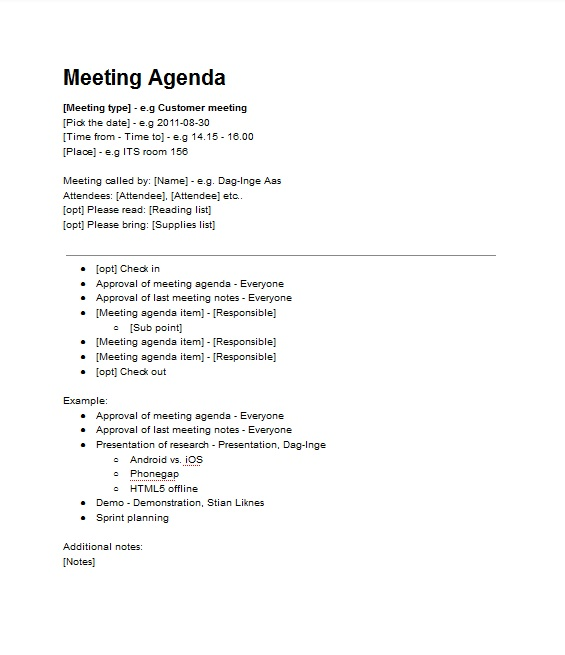
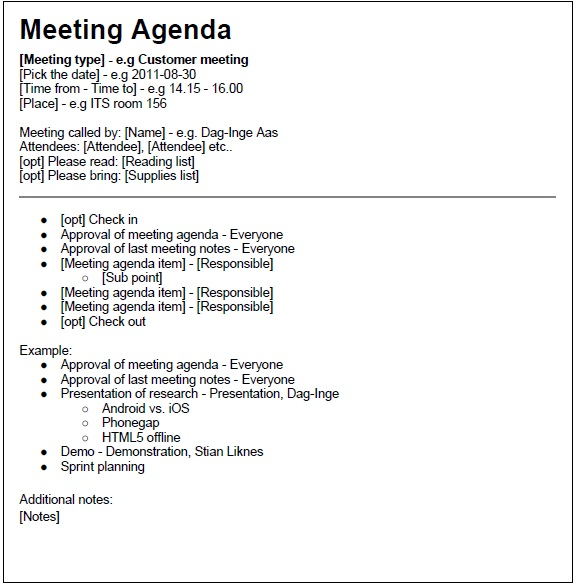
Templates, updated

Changed region(s): [[0.0301, 0.0308, 0.9628, 0.8938], [0.0, 0.9863, 0.9929, 1.0], [0.9628, 0.0, 0.9929, 0.0308]]

diff --git a/doc/project_report/appendix/appendix.tex b/doc/project_report/appendix/appendix.tex
@@ -7,7 +7,7 @@
 	\subsection{Meeting agendas}
 		\begin{figure}[htb]
 			\centering
-			\includegraphics[width=1\textwidth]{appendix/meeting_agenda.jpg}
+			\includegraphics[width=0.8\textwidth]{appendix/meeting_agenda.jpg}
 			\caption{Meeting agenda}
 			\label{fig:meeting-agenda}
 		\end{figure}
@@ -16,7 +16,7 @@
 	\subsection{Meeting minutes}
 		\begin{figure}[htb]
 			\centering
-			\includegraphics[width=1\textwidth]{appendix/meeting_minutes.jpg}
+			\includegraphics[width=0.8\textwidth]{appendix/meeting_minutes.jpg}
 			\caption{Meeting minutes}
 			\label{fig:meeting-minutes}
 		\end{figure}
@@ -25,7 +25,7 @@
 	\subsection{Weekly status report}
 		\begin{figure}[htb]
 			\centering
-			\includegraphics[width=1\textwidth]{appendix/weekly_status_report.jpg}
+			\includegraphics[width=0.8\textwidth]{appendix/weekly_status_report.jpg}
 			\caption{Weekly status report}
 			\label{fig:weekly-status-report}
 		\end{figure}
